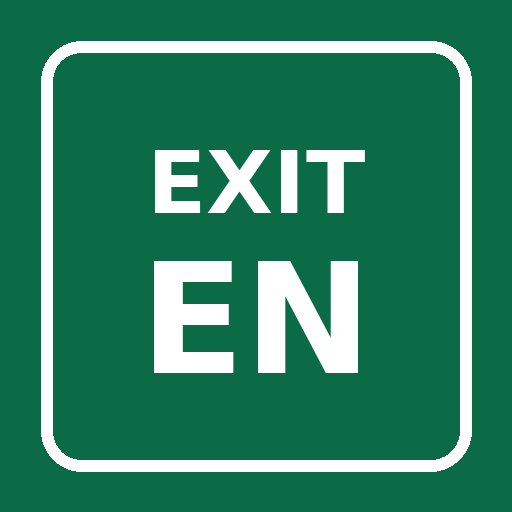
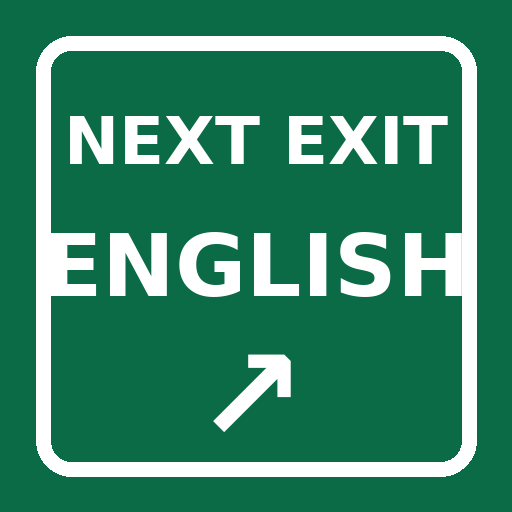
Add files via upload

Changed region(s): [[0.0625, 0.0625, 0.9375, 0.9375]]

diff --git a/index.html b/index.html
@@ -7,8 +7,8 @@
 <link rel="manifest" href="manifest.webmanifest">
 <link rel="icon" href="icon-192.png">
 <link rel="apple-touch-icon" href="icon-192.png">
-<title>Exit English</title>
-<link rel="stylesheet" href="https://fonts.googleapis.com/css2?family=Bricolage+Grotesque:opsz,wght@12..96,600;12..96,800&family=Atkinson+Hyperlegible:wght@400;700&family=JetBrains+Mono:wght@400;600&display=swap">
+<title>Next Exit: English</title>
+<link rel="stylesheet" href="https://fonts.googleapis.com/css2?family=Overpass:wght@600;800;900&family=Bricolage+Grotesque:opsz,wght@12..96,600;12..96,800&family=Atkinson+Hyperlegible:wght@400;700&family=JetBrains+Mono:wght@400;600&display=swap">
 <style>
 /* Layout: lista de "saídas" estilo placa de rodovia americana -> tela de digitação com tradução revelada abaixo */
 :root{
@@ -81,7 +81,7 @@ body::before{content:"";position:fixed;inset:0 0 auto;height:env(safe-area-inset
 .w{background:none;border:none;padding:0;font:inherit;color:inherit;cursor:pointer;border-bottom:1px dotted var(--muted)}
 .w:focus-visible{outline:2px solid var(--sign)}
 .tip{position:fixed;z-index:20;background:var(--ink);color:var(--bg);border-radius:8px;padding:6px 10px;font:600 15px var(--body);max-width:70vw;box-shadow:0 4px 14px rgba(0,0,0,.25)}
-.top{display:flex;gap:10px;align-items:flex-start;justify-content:space-between}
+.top{display:flex;gap:10px;align-items:flex-start;justify-content:space-between;flex-wrap:wrap}
 .resume{display:flex;gap:12px;align-items:center;width:100%;text-align:left;background:var(--surface);color:var(--ink);border:2px solid var(--sign);border-radius:10px;padding:12px 14px;cursor:pointer;font:inherit}
 .resume b{font:700 16px var(--display);display:block}
 .resume small{color:var(--muted)}
@@ -113,6 +113,14 @@ body::before{content:"";position:fixed;inset:0 0 auto;height:env(safe-area-inset
 .mini{height:4px;background:var(--line);border-radius:2px;overflow:hidden;margin-top:4px}
 .mini i{display:block;height:100%;background:var(--sign)}
 select.chip{font:600 14px var(--body)}
+.sign{position:relative;background:var(--sign);color:#fff;border-radius:10px;padding:6px;box-shadow:0 2px 0 rgba(0,0,0,.15);margin-top:16px;max-width:360px}
+.sign .in{border:2.5px solid #fff;border-radius:6px;padding:10px 14px 12px;display:flex;align-items:center;gap:12px}
+.sign .tab{position:absolute;top:-16px;left:14px;background:var(--sign);border:2.5px solid #fff;border-bottom:none;border-radius:6px 6px 0 0;padding:2px 10px 1px;font:900 12px "Overpass",system-ui,sans-serif;letter-spacing:.12em}
+.sign .tx2{flex:1;min-width:0}
+.sign small{display:block;font:800 13px "Overpass",system-ui,sans-serif;letter-spacing:.14em;text-transform:uppercase;opacity:.92}
+.sign b{display:block;font:900 clamp(30px,8vw,40px)/1 "Overpass",system-ui,sans-serif;letter-spacing:.01em}
+.sign .arr{font:900 38px/1 "Overpass",system-ui,sans-serif;flex-shrink:0}
+.signwrap{display:grid;gap:6px}
 .pill{font:700 13px var(--mono);background:var(--sign);color:var(--sign-ink);border-radius:999px;padding:4px 10px;white-space:nowrap;font-variant-numeric:tabular-nums}
 .finish{background:var(--sign);color:var(--sign-ink);outline:2px solid var(--sign-ink);outline-offset:-7px;border-radius:12px;padding:22px 18px;display:grid;gap:10px;text-align:center;animation:pop .45s ease-out}
 .finish h3{font:800 26px/1.1 var(--display);margin:0}
@@ -178,14 +186,14 @@ async function boot(){
   if(r&&r.status===402){const d=await r.json().catch(()=>({}));try{localStorage.removeItem("ee_lic")}catch(e){}return payScreen(d.expira_em)}
   const c=load("ee_lic",null);
   if(c&&(c.admin||(c.expira&&new Date(c.expira)>new Date()))){L=c.L;SPK=c.SPK;isAdmin=c.admin;expira=c.expira;return home()}
-  app.innerHTML=`<div class="auth"><header><h1>Exit <span>English</span></h1></header><section class="panel"><h2>Sem conexão</h2><p class="msg">Conecte-se à internet para carregar as lições pela primeira vez.</p><button class="btn" id="retry">Tentar de novo</button></section></div>`;
+  app.innerHTML=`<div class="auth"><header class="signwrap"><div class="sign" role="img" aria-label="Next Exit: English"><span class="tab">EXIT</span><div class="in"><div class="tx2"><small>Next Exit</small><b>English</b></div><span class="arr">↗</span></div></div></header><section class="panel"><h2>Sem conexão</h2><p class="msg">Conecte-se à internet para carregar as lições pela primeira vez.</p><button class="btn" id="retry">Tentar de novo</button></section></div>`;
   document.getElementById("retry").onclick=boot;
 }
 function loginScreen(msg){
   let mode="in";
   const draw=()=>{
     app.innerHTML=`<div class="auth">
-    <header><h1>Exit <span>English</span></h1><p class="sub">A forma mais fácil de treinar seu inglês cotidiano.</p></header>
+    <header class="signwrap"><div class="sign" role="img" aria-label="Next Exit: English"><span class="tab">EXIT</span><div class="in"><div class="tx2"><small>Next Exit</small><b>English</b></div><span class="arr">↗</span></div></div><p class="sub">A forma mais fácil de treinar seu inglês cotidiano.</p></header>
     <section class="panel">
       <div class="tabs"><button class="chip" data-t="in" aria-pressed="${mode==="in"}">Entrar</button><button class="chip" data-t="up" aria-pressed="${mode==="up"}">Criar conta</button></div>
       <form id="af" class="adm">
@@ -221,7 +229,7 @@ function loginScreen(msg){
 function payScreen(exp){
   const venc=exp&&new Date(exp)<new Date();
   app.innerHTML=`<div class="auth">
-  <header class="top"><div><h1>Exit <span>English</span></h1><p class="sub">Olá${sess&&sess.nome?", "+esc(sess.nome):""}!</p></div><button class="btn ghost" id="out">Sair</button></header>
+  <header class="top"><div class="signwrap"><div class="sign" role="img" aria-label="Next Exit: English"><span class="tab">EXIT</span><div class="in"><div class="tx2"><small>Next Exit</small><b>English</b></div><span class="arr">↗</span></div></div><p class="sub">Olá${sess&&sess.nome?", "+esc(sess.nome):""}!</p></div><button class="btn ghost" id="out">Sair</button></header>
   <section class="panel">
     <h2>${venc?"Seu acesso venceu em "+fmtD(exp):"Libere seu acesso"}</h2>
     <span class="tag">Valor simbólico para os primeiros 300 alunos</span>
@@ -320,7 +328,8 @@ async function syncDown(){
 }
 function ownLocal(){
   const who=sess&&sess.email;if(!who)return;
-  if(load("ee_owner",null)!==who){done={};pos={};pts=0;custom=[];["ee_done","ee_pos","ee_pts","ee_custom","ee_last","ee_dirty"].forEach(k=>{try{localStorage.removeItem(k)}catch(e){}});save("ee_owner",who)}
+  const own=load("ee_owner",null);if(!own){save("ee_owner",who);return}
+  if(own!==who){done={};pos={};pts=0;custom=[];["ee_done","ee_pos","ee_pts","ee_custom","ee_last","ee_dirty"].forEach(k=>{try{localStorage.removeItem(k)}catch(e){}});save("ee_owner",who)}
 }
 let filter="all";
 const app=document.getElementById("app");
@@ -348,7 +357,7 @@ function home(){stopSpeak();
   const items=all().filter(x=>filter==="all"||x.lv===filter);
   const total=L.length,ok=L.filter((_,i)=>done["L"+i]).length;
   app.innerHTML=`
-  <header class="top"><div><h1>Exit <span>English</span></h1><p class="sub">A forma mais fácil de treinar seu inglês cotidiano.</p></div><div class="hbtns">${isAdmin?'<button class="btn" id="admin">Alunos</button>':""}<button class="btn ghost" id="info" style="white-space:nowrap">ℹ Ajuda</button><button class="btn ghost" id="out">Sair</button></div></header>
+  <header class="top"><div class="signwrap"><div class="sign" role="img" aria-label="Next Exit: English"><span class="tab">EXIT</span><div class="in"><div class="tx2"><small>Next Exit</small><b>English</b></div><span class="arr">↗</span></div></div><p class="sub">A forma mais fácil de treinar seu inglês cotidiano.</p></div><div class="hbtns">${isAdmin?'<button class="btn" id="admin">Alunos</button>':""}<button class="btn ghost" id="info" style="white-space:nowrap">ℹ Ajuda</button><button class="btn ghost" id="out">Sair</button></div></header>
   ${!isAdmin&&expira?`<p class="hint">Acesso liberado até ${fmtD(expira)}</p>`:""}
   ${resumeBtn()}
   <div class="bar">${[["all","Todas"],["b","Básico"],["i","Intermediário"],["a","Avançado"],["v","Vocabulário"],["t","Textos"],["m","Meus textos"]].map(([k,t])=>`<button class="chip" data-f="${k}" aria-pressed="${filter===k}">${t}</button>`).join("")}
@@ -506,7 +515,7 @@ function resumeBtn(){
 function showInfo(){
   const o=document.createElement("div");o.className="overlay";
   o.innerHTML=`<div class="modal" role="dialog" aria-label="Como usar">
-  <h2>Como usar o Exit English</h2>
+  <h2>Como usar o Next Exit: English</h2>
   <h3>1. Escolha uma lição</h3>
   <p>Use os filtros para escolher o nível: Básico, Intermediário, Avançado, Vocabulário ou Textos.</p>
   <h3>2. Praticar</h3>

diff --git a/sw.js b/sw.js
@@ -1,4 +1,4 @@
-const C="exit-english-v12";
+const C="exit-english-v13";
 self.addEventListener("install",e=>{e.waitUntil(caches.open(C).then(c=>c.addAll(["/","/index.html","/manifest.webmanifest","/icon-192.png","/icon-512.png"])));self.skipWaiting()});
 self.addEventListener("activate",e=>{e.waitUntil(caches.keys().then(k=>Promise.all(k.filter(x=>x!==C).map(x=>caches.delete(x)))));self.clients.claim()});
 self.addEventListener("fetch",e=>{
